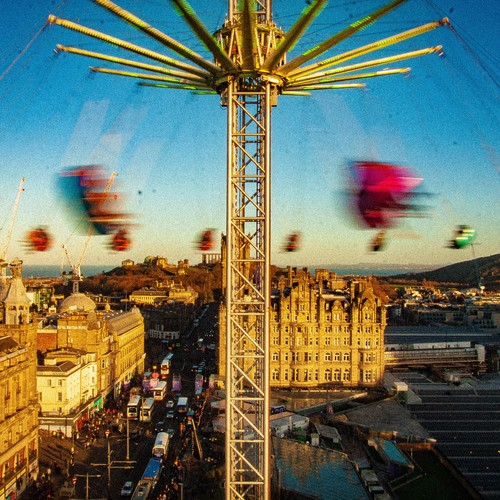
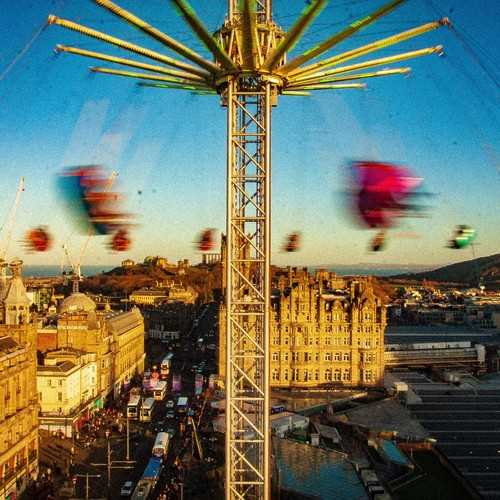
Added image

diff --git a/templates/pics.html b/templates/pics.html
@@ -1,5 +1,12 @@
 {{template "base/header" .}}
 <div class="gallery-grid">
+  <a href="img/pics/vigilant_observer.jpg">
+    <div class="gallery-img">
+      <img src="img/pics/thumbs/vigilant_observer-500.jpg" alt="Comet C/2020 F3 (NEOWISE) in the sky at dawn">
+      <div class="gallery-img-desc">The Vigilant Observer</div>
+    </div>
+  </a>
+
   <a href="img/pics/heaven_sent.jpg">
     <div class="gallery-img">
       <img src="img/pics/thumbs/heaven_sent-500.jpg" alt="Comet C/2020 F3 (NEOWISE) in the sky at dawn">
@@ -9,7 +16,7 @@
 
   <a href="img/pics/arthurs_seat.jpg">
     <div class="gallery-img">
-      <img src="img/pics/thumbs/arthurs_seat-500.jpg" alt="Tilt shift picture of Edinburgh">
+      <img src="img/pics/thumbs/arthurs_seat-500.jpg" alt="Edinburgh as seen from the Scott Monument">
       <div class="gallery-img-desc">Tilt Shift Edinburgh</div>
     </div>
   </a>
@@ -23,7 +30,7 @@
 
   <a href="img/pics/miniature_town.jpg">
     <div class="gallery-img">
-      <img src="img/pics/thumbs/miniature_town-500.jpg" alt="Super blood moon">
+      <img src="img/pics/thumbs/miniature_town-500.jpg" alt="Wide angle image from Arthur's Seat looking down on Edinburgh">
       <div class="gallery-img-desc">Miniature Town</div>
     </div>
   </a>
